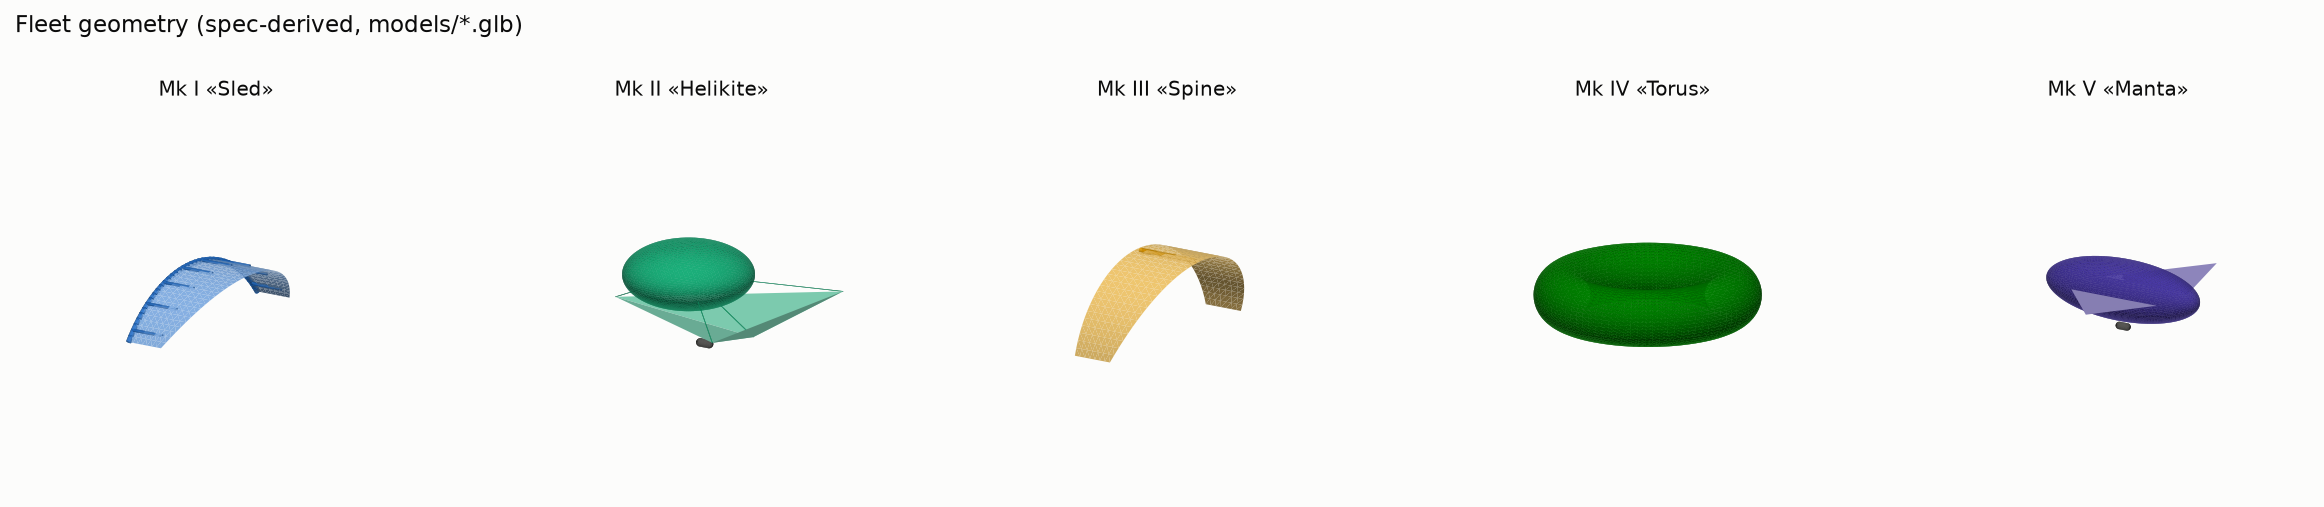
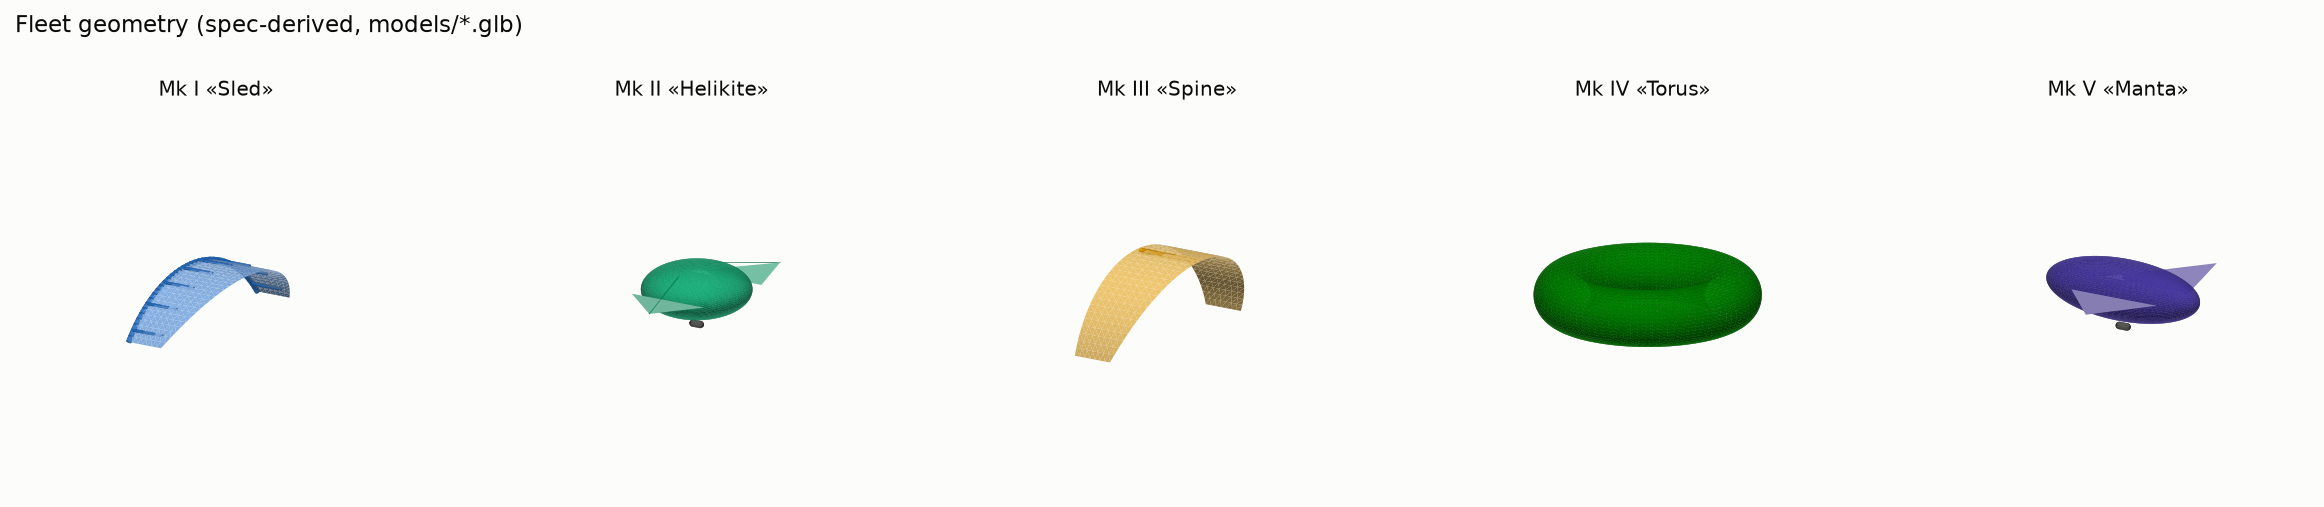
Hellkite split wing

Changed region(s): [[0.2478, 0.4734, 0.3718, 0.6805]]

diff --git a/kytoon/geometry.py b/kytoon/geometry.py
@@ -203,57 +203,39 @@ def build(spec: KytoonSpec) -> "trimesh.Scene":
                 geom_name="spar")
 
     if spec.lobe is not None:
-        # layout (matches the iteration sheet's side view): delta keel wing
-        # plane at z=0, lobe seated over its mid-chord, pod slung below.
-        c_root = (2 * spec.canopy.area / spec.canopy.span
-                  if spec.canopy is not None else spec.lobe.diameter)
-
+        # v2 layout: two side deltas rooted on the lobe equator (a single
+        # under-lobe fabric sheet cannot hold shape), pod slung below.
+        a, cz = spec.lobe.diameter / 2, spec.lobe.height / 2
         lobe = trimesh.creation.icosphere(subdivisions=4)
-        lobe.apply_scale([spec.lobe.diameter / 2, spec.lobe.diameter / 2,
-                          spec.lobe.height / 2])
-        lobe.apply_translation([0.45 * c_root, 0.0,
-                                spec.lobe.height / 2 + 0.5])
+        lobe.apply_scale([a, a, cz])
         scene.add_geometry(lobe, geom_name="lobe")
 
         if spec.canopy is not None:
-            # swept delta, area = ½·c_root·span; shallow center fold (the
-            # "keel") so it reads as a surface with dihedral, not a sticker.
-            # projected area is preserved: the fold point only moves in z.
-            b2 = spec.canopy.span / 2
-            verts = [
-                [0.0, 0.0, 0.0],            # apex, forward
-                [c_root, -b2, 1.2],         # tip, slight upsweep
-                [c_root, b2, 1.2],
-                [0.85 * c_root, 0.0, -1.5],  # keel fold, below centerline
-            ]
-            wing = trimesh.Trimesh(
-                vertices=verts, faces=[[0, 1, 3], [0, 3, 2], [1, 2, 3]],
-                process=False)
-            scene.add_geometry(wing, geom_name="keel_wing")
+            y_root = 0.9 * a
+            half_span = spec.canopy.span / 2 - y_root
+            root = spec.canopy.area / half_span   # 2 wings: ½·c·h each
+            x0 = -root / 2
+            for side, sgn in (("stbd", 1.0), ("port", -1.0)):
+                tip = [x0 + 0.75 * root, sgn * spec.canopy.span / 2, 0.6]
+                wing = trimesh.Trimesh(
+                    vertices=[
+                        [x0, sgn * y_root, 0.0],
+                        [x0 + root, sgn * y_root, 0.0],
+                        tip,
+                    ],
+                    faces=[[0, 1, 2]], process=False)
+                scene.add_geometry(wing, geom_name=f"wing_{side}")
+                # stay: lobe upper surface → wing tip (bracing the panel)
+                lp = np.array([0.0, sgn * 0.55 * a, 0.75 * cz])
+                scene.add_geometry(
+                    _tube_between(lp, np.array(tip), 0.06),
+                    geom_name=f"stay_{side}")
 
-        # rigging: lobe underside tied to the wing's corners and keel fold
-        # (visual/interface geometry only — mass lives in rigging_mass)
-        lc = np.array([0.45 * c_root, 0.0, spec.lobe.height / 2 + 0.5])
-        a, cz = spec.lobe.diameter / 2, spec.lobe.height / 2
-        anchors = [np.array(v) for v in (
-            [0.0, 0.0, 0.0],
-            [c_root, -spec.canopy.span / 2, 1.2],
-            [c_root, spec.canopy.span / 2, 1.2],
-            [0.85 * c_root, 0.0, -1.5],
-        )]
-        for k, p in enumerate(anchors):
-            d = p - lc
-            # start on the lobe surface along the line to the anchor
-            t = 1.0 / math.sqrt((d[0] / a) ** 2 + (d[1] / a) ** 2
-                                + (d[2] / cz) ** 2)
-            scene.add_geometry(_tube_between(lc + t * d, p, 0.06),
-                               geom_name=f"rigging_{k}")
-
-        # gimbaled EO/IR pod (spec payload), hung under the keel
+        # gimbaled EO/IR pod (spec payload), hung under the lobe
         pod = trimesh.creation.capsule(radius=0.45, height=1.1)
         pod.apply_transform(
             trimesh.transformations.rotation_matrix(math.pi / 2, [0, 1, 0]))
-        pod.apply_translation([0.55 * c_root, 0.0, -3.2])
+        pod.apply_translation([0.0, 0.0, -cz - 1.0])
         scene.add_geometry(pod, geom_name="pod")
 
     if spec.hull is not None:

diff --git a/kytoon/solvers/l1_body_aero.py b/kytoon/solvers/l1_body_aero.py
@@ -89,22 +89,24 @@ def build_airplane(spec: KytoonSpec) -> "asb.Airplane":
         body = _revolution_body("hull", spec.hull.length, hr)
 
     elif spec.archetype == Archetype.HELIKITE:
-        # delta keel wing under an equivalent-frontal-area revolution body
-        c_root = 2 * spec.canopy.area / spec.canopy.span
-        z_wing = -(spec.lobe.height / 2 + 0.5)
+        # v2: two side deltas rooted on the lobe equator (mirrors
+        # kytoon.geometry), lobe as an equivalent-frontal revolution body
+        y_root = 0.9 * spec.lobe.diameter / 2
+        half_span = spec.canopy.span / 2 - y_root
+        root = spec.canopy.area / half_span
         wing = asb.Wing(
-            name="keel wing", symmetric=True,
+            name="side deltas", symmetric=True,
             xsecs=[
-                asb.WingXSec(xyz_le=[0, 0, z_wing], chord=c_root, airfoil=af),
+                asb.WingXSec(xyz_le=[-root / 2, y_root, 0],
+                             chord=root, airfoil=af),
                 asb.WingXSec(
-                    xyz_le=[0.98 * c_root, spec.canopy.span / 2, z_wing],
-                    chord=0.02 * c_root, airfoil=af),
+                    xyz_le=[-root / 2 + 0.75 * root, spec.canopy.span / 2, 0.6],
+                    chord=0.02 * root, airfoil=af),
             ],
         )
         r_eq = math.sqrt(spec.lobe.diameter / 2 * spec.lobe.height / 2)
         body = _revolution_body("lobe (equiv. revolution)",
-                                spec.lobe.diameter, r_eq,
-                                center=(0.45 * c_root, 0, 0))
+                                spec.lobe.diameter, r_eq)
     else:
         raise ValueError(
             f"{spec.name}: {spec.archetype.value} is not a body+wing hybrid "
@@ -168,9 +170,9 @@ def solve(spec: KytoonSpec, alphas: np.ndarray | None = None,
         flags.append("rigid smooth hull assumed — body drag is a lower "
                      "bound for a soft envelope")
     if spec.archetype == Archetype.HELIKITE:
-        flags.append("lobe wake blanketing of the keel wing NOT captured — "
-                     "CL is an upper bound; oblate lobe approximated as a "
-                     "revolution body (frontal area matched)")
+        flags.append("lobe interference on the side wings only partially "
+                     "captured (equivalent revolution body); wake "
+                     "blanketing unmodeled — CL is an upper bound")
     flags.append("AeroBuildup is semi-empirical, not benchmark-anchored — "
                  "bounds the spec coefficients, does not certify them")
 

diff --git a/kytoon/solvers/l0.py b/kytoon/solvers/l0.py
@@ -234,6 +234,16 @@ def solve_wind_envelope(spec: KytoonSpec) -> WindEnvelope:
             2 * spec.tether.wll_n / (RHO_AIR * cd_blimp * frontal)
         )
 
+    # pressurized-envelope dent: past q ≈ superpressure, the stagnation
+    # point pushes the envelope in and it loses shape. Lobe/hull use the
+    # same 500 Pa gust superpressure as their hoop check; torus its spec
+    # pressure. Wings-only archetypes have no such surface.
+    if spec.lobe is not None or spec.hull is not None:
+        limits["envelope dent"] = math.sqrt(2 * 500 / RHO_AIR)
+    elif spec.torus is not None:
+        limits["envelope dent"] = math.sqrt(
+            2 * spec.torus.pressure_bar * 1e5 / RHO_AIR)
+
     limiter = min(limits, key=limits.get)  # type: ignore[arg-type]
     v_max = limits[limiter]
 

diff --git a/tests/test_l0.py b/tests/test_l0.py
@@ -82,6 +82,16 @@ def test_mk1_tow_force_magnitude(specs):
     assert 20 < env.tow_force_at_12ms_kn < 60
 
 
+def test_envelope_dent_limiter(specs):
+    """Pressurized envelopes lose shape once q exceeds superpressure:
+    v_dent = sqrt(2·500/ρ) ≈ 28.6 m/s at the assumed 500 Pa. Binds Mk II
+    (side-wing v2); must NOT bind the 2000 Pa torus (57 m/s > its 44)."""
+    env2 = solve_wind_envelope(specs["II"])
+    assert env2.v_max_limiter == "envelope dent"
+    assert env2.v_max_ms == pytest.approx(28.6, abs=0.1)
+    assert solve_wind_envelope(specs["IV"]).v_max_limiter != "envelope dent"
+
+
 def test_mk5_single_kytoon_coverage(specs):
     """Mk V's competing claim: one winged blimp covers the whole 0–20+ m/s
     requirement alone (challenges the two-kytoon carriage logic)."""

diff --git a/tests/test_geometry.py b/tests/test_geometry.py
@@ -81,11 +81,12 @@ def test_hull_mesh_volume_matches_spec(specs, scenes):
 
 
 @needs_trimesh
-def test_mk5_wing_mesh_area_matches_spec(specs, scenes):
[email redacted]("mk", ["II", "V"])
+def test_side_delta_mesh_area_matches_spec(specs, scenes, mk):
     """Two side deltas together carry the spec's projected wing area."""
-    total = (scenes["V"].geometry["wing_stbd"].area
-             + scenes["V"].geometry["wing_port"].area)
-    assert total == pytest.approx(specs["V"].canopy.area, rel=0.02)
+    total = (scenes[mk].geometry["wing_stbd"].area
+             + scenes[mk].geometry["wing_port"].area)
+    assert total == pytest.approx(specs[mk].canopy.area, rel=0.02)
 
 
 @needs_trimesh

diff --git a/KYTOON-PROJECT.md b/KYTOON-PROJECT.md
@@ -29,7 +29,7 @@ log (`kiteship-project-log.md`). This repo owns the *numbers*.
 | Mk | Name | Archetype | Role | Key mechanism |
 |----|------|-----------|------|---------------|
 | I | Sled | `lei` | launch boost + traction | C-shape LEI, He in LE tube + 8 struts |
-| II | Helikite | `helikite` | zero-wind ISR loiter | oblate He lobe + delta keel wing |
+| II | Helikite | `helikite` | zero-wind ISR loiter | oblate He lobe + 2 braced side deltas (v2) |
 | III | Spine | `spine` | boost + drone perch/recharge | inflatable keel spar carrying grapple rail + 300 kg dock |
 | IV | Torus | `torus` | calm-air recovery node | He ring, capture line through central duct |
 | V | Manta | `blimp` | single-kytoon challenger | prolate He hull + two side delta wings |
@@ -112,8 +112,11 @@ consciously replace them (and update this file + tests):
    factor with mem4py membrane FEM.
 4. **Wind envelope**: v_min from static-lift deficit at cl_op with vertical
    fraction cos(90° − tether elevation); v_max = min(tether WLL, wrinkle
-   margin found by bisection on tow force, canopy fabric limit). Quasi-static
-   only — **no gust cases, no crosswind maneuvers, no dynamic loads.**
+   margin found by bisection on tow force, canopy fabric limit, envelope
+   dent). The dent limit (added 2026-07-11): a pressurized envelope loses
+   shape once q exceeds its superpressure — lobe/hull use the assumed
+   500 Pa (→ 28.6 m/s), torus its spec 2000 Pa. Quasi-static only —
+   **no gust cases, no crosswind maneuvers, no dynamic loads.**
 5. **Tether**: straight line; mass counted, drag and sag NOT integrated
    at L0. Torus v_max uses bluff-body drag (Cd 0.5 × ring frontal area)
    against tether WLL. The L1 correction exists (`l1_tether.py`, MoorPy);
@@ -136,9 +139,9 @@ consciously replace them (and update this file + tests):
 
 ## 4. The test suite is a contract
 
-`tests/test_l0.py` (15) + `tests/test_l1_aero.py` (11) +
+`tests/test_l0.py` (16) + `tests/test_l1_aero.py` (11) +
 `tests/test_l1_tether.py` (8) + `tests/test_viz.py` (6) +
-`tests/test_geometry.py` (10) + `tests/test_l1_body_aero.py` (8) — all
+`tests/test_geometry.py` (11) + `tests/test_l1_body_aero.py` (8) — all
 passing at last compile. Categories:
 
 - **Physics anchors** (must never change without a source): He net-lift
@@ -211,6 +214,25 @@ legitimately lower per m² and not comparable to AWE traction figures.
   for 20 kg of net lift (534 → 478 incl. tether). Spec + iteration sheet
   (REV C) updated. Next binding limit is still the tether; going past
   ~29 m/s (18 mm) costs commonality and lift for little ISR value.
+- **Mk IV's headline ceiling is a tension number, not a mission number
+  (2026-07-11)**: with no wing, fixed buoyancy fights v²-growing drag —
+  L1 tether blow-down: 83° elevation / 398 m altitude at 5 m/s degrades to
+  44°/280 m at 15 and 20°/136 m at 25. Its *useful* envelope (elevation
+  ≥ 45°, capture line workable) is ≈ 0–14 m/s, not the 0–44 the L0 table
+  suggests. Mk II v2 holds ≥ 64°/360 m through 25 m/s because wing lift
+  grows with q. Candidate improvement: add a "mission ceiling"
+  (elevation-floor) metric to the envelope solve so the comparison table
+  stops flattering drag-only aerostats.
+- **Mk II v2: side deltas replace the under-lobe keel sheet (2026-07-11,
+  REV D)**: a single 250 m² unsupported fabric surface under the lobe
+  cannot hold shape — no load path to its trailing edge. Replaced with two
+  44 m² deltas rooted on the lobe equator with tip stays (same config
+  family as Mk V). Smaller wing in cleaner side flow: cl_op 0.55 /
+  cd_op 0.30 on 88 m². Net static rose to +558 kg (less canopy mass);
+  ceiling is now the **lobe dent limit 28.6 m/s** — an airframe limit,
+  not the line — making Mk II the highest-ceiling buoyant kytoon. Tow
+  fell to 4.9 kN @ 12 m/s (irrelevant to the ISR role). AeroBuildup
+  bounds the new coefficients at resultant ratio 0.88.
 - **Body-interference study bounds the Mk II/V coefficients (2026-07-11,
   task 5)**: AeroSandbox AeroBuildup (rigid smooth bodies — a lower drag
   bound). Mk V: cl_op 0.65 at α≈7°, L1 system cd 0.059 vs the hand-picked

diff --git a/reports/l0.md b/reports/l0.md
@@ -6,18 +6,18 @@ Closed-form layer: Archimedes buoyancy, pressurized-beam wrinkle margins, quasi-
 
 | Parameter | Mk I «Sled» | Mk II «Helikite» | Mk III «Spine» | Mk IV «Torus» | Mk V «Manta» |
 |---|---|---|---|---|---|
-| Wing area [m²] | 400 | 250 | 350 | 0 | 130 |
+| Wing area [m²] | 400 | 88 | 350 | 0 | 130 |
 | He volume [m³] | 37 | 718 | 5 | 675 | 648 |
-| Flying mass [kg] | 185 | 218 | 258 | 245 | 209 |
+| Flying mass [kg] | 185 | 193 | 258 | 245 | 209 |
 | Gross He lift [kg] | 39 | 752 | 5 | 706 | 678 |
-| Net static lift [kg] | -146 | 534 | -252 | 461 | 469 |
-| … incl. tether [kg] | -190 | 478 | -308 | 425 | 433 |
+| Net static lift [kg] | -146 | 558 | -252 | 461 | 469 |
+| … incl. tether [kg] | -190 | 502 | -308 | 425 | 433 |
 | Calm-air capable | ✘ | ✔ | ✘ | ✔ | ✔ |
 | v_min [m/s] | 3.8 | 0.0 | 4.9 | 0.0 | 0.0 |
-| v_max [m/s] | 13.7 | 25.9 | 18.5 | 44.4 | 26.1 |
-| v_max limiter | spar/LE wrinkle | tether WLL | tether WLL | tether WLL (drag) | tether WLL |
-| Tow @12 m/s [kN] | 28.7 | 14.3 | 28.0 | 0.0 | 7.7 |
-| Spare vert. lift @10 m/s [kg] | 1,094 | 1,245 | 956 | 425 | 865 |
+| v_max [m/s] | 13.7 | 28.6 | 18.5 | 44.4 | 26.1 |
+| v_max limiter | spar/LE wrinkle | envelope dent | tether WLL | tether WLL (drag) | tether WLL |
+| Tow @12 m/s [kN] | 28.7 | 4.9 | 28.0 | 0.0 | 7.7 |
+| Spare vert. lift @10 m/s [kg] | 1,094 | 750 | 956 | 425 | 865 |
 
 ## Structure margins
 
@@ -27,7 +27,7 @@ Closed-form layer: Archimedes buoyancy, pressurized-beam wrinkle margins, quasi-
 | LE tube | 11.25 | 18.8% | 0.81 | 3.58 | 22.5% | ✔ |
 | strut ×8 | 12.50 | 20.8% | 0.94 | 1.23 | 76.8% | ✔ |
 
-### Mk II «Helikite» — structure @ tow 14.3 kN (12 m/s)
+### Mk II «Helikite» — structure @ tow 4.9 kN (12 m/s)
 | Member | Hoop [kN/m] | Hoop util | M_applied [kN·m] | M_wrinkle [kN·m] | Bending util | OK |
 |---|---|---|---|---|---|---|
 | lobe envelope (hoop only) | 1.75 | 2.9% | 0.00 | — | 0.0% | ✔ |
@@ -53,7 +53,7 @@ Closed-form layer: Archimedes buoyancy, pressurized-beam wrinkle margins, quasi-
 - **Mk II «Helikite»**: no L0 flags
 - **Mk III «Spine»**: needs ≥ 4.9 m/s to stay aloft
 - **Mk IV «Torus»**: no L0 flags
-- **Mk V «Manta»**: no L0 flags- **Mk V «Manta»**: no L0 flags- **Mk V «Manta»**: no L0 flags## Aerodynamic calibration provenance
+- **Mk V «Manta»**: no L0 flags- **Mk V «Manta»**: no L0 flags- **Mk V «Manta»**: no L0 flags- **Mk V «Manta»**: no L0 flags## Aerodynamic calibration provenance
 
 Canopy coefficients for the clean-wing archetypes (Mk I, Mk III) are anchored
 to the open TU Delft V3 LEI benchmark (awegroup/TUDELFT_V3_KITE, CC-BY):